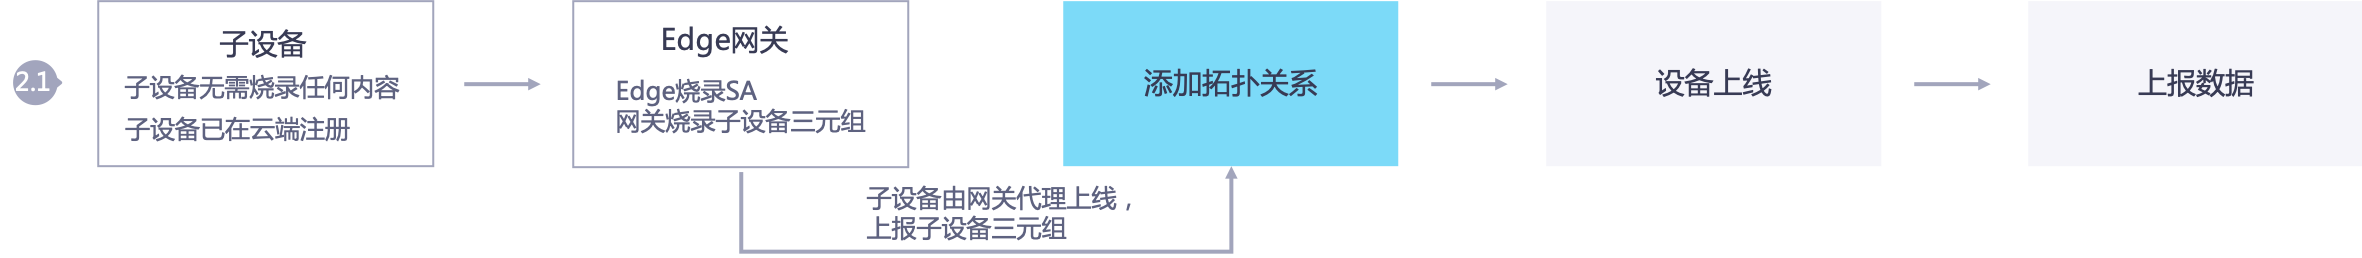
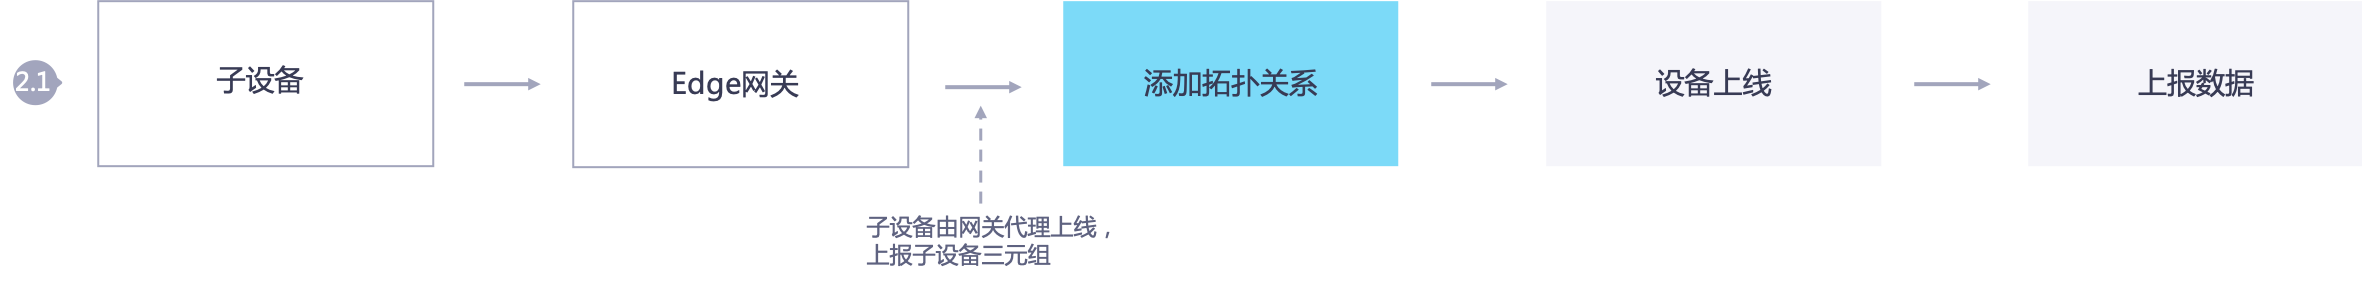
Update.

diff --git a/learn/connection_scenarios.md b/learn/connection_scenarios.md
@@ -75,29 +75,33 @@ EnOS IoT Hub支持的安全认证方式有两种：
 
 ### 场景1.1：单个预注册智能设备<scenario1_1>
 
-接入设备已注册且已在出厂前烧录了自身的三元组。
-
 下图所示为接入场景1.1的消息流。
 
 .. image:: ../media/connection_scenario_1.1.png
 
-该场景要求设备在出厂时已烧录在云端注册设备后得到的设备三元组。由于在制造时需要烧录自身的三元组，因此该场景安全性较高，但是可操作性较低。
+.. note:: 该场景要求设备在出厂时已烧录在云端注册设备后得到的设备三元组。
+
+由于在制造时需要烧录自身的三元组，因此该场景安全性较高，但是可操作性较低。
 
 ### 场景1.2：批量预注册智能设备<scenario1_2>
-
-接入设备已注册且批量烧录相同的产品信息
 
 下图所示为接入场景1.2的消息流。
 
 .. image:: ../media/connection_scenario_1.2.png
 
-场景1.2解决了场景1.1中可操作性较低的情况。即：
+.. note:: 设备已在云端注册；设备烧录产品证书，且启用了动态激活。
 
-1. 每个设备出厂批量烧录相同的产品证书（即`productKey`和`productSecret`）。
+该场景主要步骤如下：
 
-2. 设备注册可以与设备厂商的设备管理系统进行集成。每发货一批次设备，客户的设备管理系统可以通过调用REST API批量注册设备。
+1. 设备注册可以与设备厂商的设备管理系统进行集成。每发货一批次设备，客户的设备管理系统可以通过调用REST API批量注册设备。
 
-3.当设备发往现场、上电、联网以后可以自动与云端进行连接。
+2. 每个设备出厂批量烧录相同的产品证书（即`productKey`和`productSecret`）及以设备序列号作为`deviceKey`。
+
+3. 当设备发往现场、上电、联网以后可通过`productKey`，`productSecret`和`deviceKey`动态获取`deviceSecret`。
+
+4. 设备通过三元组，即`productKey`，`deviceKey`，和`deviceSecret`完成设备激活与上线，并开始传输数据。
+
+场景1.2解决了场景1.1中烧录的可操作性较低的问题，但是因为设备出场烧录相同的产品证书，因此该场景的安全性低于场景1.1。
 
 ### 场景1.3：动态注册非智能设备<scenario1_3>
 
@@ -109,7 +113,7 @@ EnOS IoT Hub支持的安全认证方式有两种：
 
 以户用光伏逆变器为例进行说明。
 
-户用光伏逆变器不支持烧录固件。在该场景中，需要使用采集棒进行数据采集并转发至云端。考虑采集棒只采集一台逆变器的数据，因此可以将逆变器和采集棒视为一个整体的智能设备，而采集棒支持烧录固件，所以可以将逆变器和采集棒作为一个可支持烧录固件的整体智能设备。  
+户用光伏逆变器不支持烧录固件。该场景可视为场景1.1的延伸，在该场景中，需要使用采集棒进行数据采集并转发至云端。考虑采集棒只采集一台逆变器的数据，因此可以将逆变器和采集棒视为一个整体的智能设备，而采集棒支持烧录固件，所以可以将逆变器和采集棒作为一个可支持烧录固件的整体智能设备。  
 
 1. 在云端创建逆变器产品（在客户的OU下创建，而非在开发者OU下创建）。
 
@@ -133,13 +137,16 @@ EnOS IoT Hub支持的安全认证方式有两种：
 
 .. image:: ../media/connection_scenario_2.1.png
 
-场景2.1的原理与2.2类似，只是在场景2.2中，Edge中烧录了SA，具备调用EnOS API的权限，所以可以通过API创建子设备。而在场景2.1中，你需要事先在云端注册子设备，获取子设备三元组信息，并提前将子设备三元组信息烧录到Edge中。
+场景2.1中，你需要事先在云端注册子设备，获取子设备三元组信息，并提前将子设备三元组信息烧录到Edge中。
 
 在EnOS Edge配置中心配置设备连接时，需要将接入设备与预先烧录的子设备三元组绑定。
 
 场景2.1的配置复杂度要大于场景2.2，场景2.2的灵活性更好，但是场景2.1的安全性更高。从便捷的角度，可以考虑使用场景2.2。
 
 ### 场景2.2：动态注册子设备<scenario2_2>
+
+
+场景2.2的原理与2.1类似，场景2.2的灵活性更好，在场景2.2中，Edge中烧录了SA，具备调用EnOS API的权限，所以可以通过API创建子设备。
 
 下图所示为接入场景2.2的消息流。
 

diff --git a/learn/enos_coap.md b/learn/enos_coap.md
@@ -1,35 +1,46 @@
 # 基于CoAP协议的连接
 
-设备开发者可以通过CoAP/DTLS协议，将设备采集的实时数据上报到EnOS Cloud，借助EnOS，实现海量设备的安全连接和数据管理能力。
+设备开发者可以通过CoAP/DTLS协议，将设备采集的实时数据上报到EnOS，借助EnOS，实现海量设备的安全连接和数据管理能力。NB-IoT设备接入EnOS的流程如下图：
 
-设备请求连接到指定的CoAP服务器，开发者可选加密和非加密端口。如果选择加密端口，则设备首先发送DTLS握手请求，设备端和云端根据预定义的算法协商PSK参数，设备端发送pskid和len参数到云端进行校验，成功后建立安全连接通道。
+.. image:: ../media/enos_coap.png
 
-建立安全通道之后，设备发起身份认证请求，如果采用加密方式，此步骤可与上一步DTLS握手合并；如果采用非加密方式，则采用三元组认证方式，支持选择一机一密和一型一密，如果采用后者需先返回devicesecret再认证。
+1. 设备端集成IoT SDK, 并烧录设备三元组于设备中；
+2. 设备通过运营商提供的蜂窝网络连接到EnOS,运营商负责管理设备产生的流量数据和计费，不储存业务数据；
+3. 应用开发者可以通过EnOS的API获取设备数据、修改测点属性、调用设备服务，并将获取的数据呈现在应用中。
 
+## CoAP协议标准
 
-
-## 协议版本
-
-支持RFC 7252 Constrained Application Protocol协议，具体请参考：[RFC 7252](https://tools.ietf.org/html/rfc7252?spm=a2c4g.11186623.2.12.2e2e3cb88Cjj8L)。
-
-## 通道安全
-
-使用DTLS v1.2保证通道安全，具体请参考：[RFC 6347](https://tools.ietf.org/html/rfc6347?spm=a2c4g.11186623.2.13.2e2e3cb88Cjj8L)。
+EnOS支持的协议标准为RFC 7252 Constrained Application Protocol，具体参考：[RFC 7252](https://tools.ietf.org/html/rfc7252?spm=a2c4g.11186623.2.12.2e2e3cb88Cjj8L)。
 
 ## EnOS CoAP约定
 
-支持可确认请求（CON），响应会以Piggybacked形式在ACK消息中返回。
+支持可确认请求（`CON`），响应会以`Piggybacked`形式在`ACK`消息中返回。
 
 实现了RFC 7252协议规定的CoAP缓存功能，因此要求设备对于每一个新的请求，使用不同CoAP Message ID和Token。
 
 EnOS支持CoAP协议中的Block-wise传输功能，具体参考：[RFC 7959](https://tools.ietf.org/html/rfc7959)。
 
+## DTLS安全通道
+
+设备请求连接到指定的CoAP服务器，然后建立DTLS安全通道。连接过程主要步骤如下:
+
+1. 设备首先发送DTLS握手请求
+2. 设备端和EnOS根据预定义的算法协商PSK参数
+3. 设备端发送pskid和len参数到EnOS进行校验，成功后建立安全连接通道。
+
+建立安全通道之后，设备发起身份认证请求，如果采用加密方式，此步骤可与上一步DTLS握手合并；如果采用非加密方式，则采用三元组认证方式，支持选择一机一密和一型一密，如果采用后者需先返回devicesecret再认证。
+
+EnoS使用DTLS v1.2保证通道安全，具体参考：[RFC 6347](https://tools.ietf.org/html/rfc6347?spm=a2c4g.11186623.2.13.2e2e3cb88Cjj8L)。
+
+
 ## 说明与限制
 
-Topic规范和MQTT Topic一致，CoAP协议内接口对于所有topic和MQTT Topic可以复用。
+当设备通过CoAP协议接入EnOS时，Topic规范和MQTT Topic一致，CoAP协议内接口对于所有topic和MQTT Topic可以复用。
 
 EnOS CoAP接入目前不支持资源发现功能，不支持资源观察功能。
 
 通过CoAP传输数据的大小依赖于MTU的大小，建议在1KB以内。
 
+## 下一步
 
+参考[CoAP协议规范](/docs/device-connection/zh_CN/dev/reference/coap/index)将设备接入EnOS并复用MQTT topic与EnOS Cloud进行数据传输。

diff --git a/howto/model/creating_model.md b/howto/model/creating_model.md
@@ -53,6 +53,16 @@
 
      + int,float,double：需定义默认值，该数据的单位等信息。
      + enum：需定义枚举项的参数值和该参数的描述。
+
+       .. csv-table::
+          :widths: auto
+
+          "字段", "描述"
+          "参数值", "支持int和string类型，长度不超过32个字符。只有当所有参数值都是int类型时，参数值才会作为int类型保存；在参数值中存在一个或多个string类型字符，则全体参数值作为string类型保存。"
+          "参数描述", "支持中文、英文大小写、数字和特殊字符“-”、“_”、“@”、“.”、和“:”，长度不超过128个字符"
+       
+       .. note:: 参数值以int类型还是string类型存储，以创建时的设置为准。如创建该enum类型参数时，参数都以int类型保存，后续如果在某个enum参数值中加入字符时，EnOS会提示参数类型错误，因为所有参数值都已被设置为int类型；如过创建该类型时，参数都保存为string类型，则后续如果修改参数值列表，使其不包含任何字符，这些变量依然会保存为string类型，而不是int，此时EnOS不会提示参数类型错误。
+
      + bool：需采用0和1来定义布尔值。
      + string：需定义默认值，String的类型和string的数据长度。
      + timestamp：timestamp的格式为String类型的UTC时间戳(毫秒)。

diff --git a/reference/coap/reporting_data.md b/reference/coap/reporting_data.md
@@ -1,0 +1,28 @@
+# 设备上报属性、测点、事件
+
+设备可以通过CoAP接入，按照EnOS设备协议规范上报属性信息、测点信息和设备事件。
+
+通过CoAP接入的低功耗设备消耗的数据格式常见为二进制数据流，可以使用透传模式上报至EnOS Cloud并在云端通过脚本解析器将数据转成EnOS标准JSON。
+
+当设备通过CoAP协议接入EnOS时，Topic规范和MQTT Topic一致，有关上行消息的请求数据格式、响应数据格式、参数说明，参见[设备上报属性、测点和事件（透传）](../mqtt/upstream/device_else/report_event_pass)
+
+响应中除了包括EnOS设备协议规范定义的响应数据（Payload）外，还包括了CoAP返回码，返回码和响应数据的结构如下：
+
+```json
+Code: CoAP协议定义的返回码
+Payload: {ResponsePayload}
+``` 
+
+CoAP协议定义的返回码说明如下：
+
+.. csv-table::
+   :widths: auto
+
+   "返回码", "描述", "Payload", "说明"
+   "2.04", "Changed", "EnOS支持的响应数据", "正确请求"
+   "4.00", "Bad Request", "无", "请求发送的Payload非法"
+   "4.01", "Unauthorized", "无", "未授权的请求"
+   "4.03", "Forbidden", "无", "禁止的请求"
+   "4.04", "Not Found", "无", "请求的路径不存在"
+   "4.05", "Method Not Allowed", "无", "请求方法不合法"
+   "5.00", "Internal Server Error", "无", "EnOS内部错误"

diff --git a/reference/coap/invoking_service_setting_measure_point.md b/reference/coap/invoking_service_setting_measure_point.md
@@ -1,0 +1,30 @@
+# 云端下发测点设置与服务调用
+
+应用可以通过EnOS的API，对通过CoAP接入的设备设置测点或调用服务。
+
+关于测点设置、服务调用的请求数据格式、相应数据格式、参数说明，参见[向设备发送指令（透传）](../mqtt/downstream/devices/invoke_services_pass)。
+
+当应用对设备设置测点或调用服务后，EnOS Cloud会缓存这个请求，待设备发送上行数据时，在响应消息内通知设备，即EnOS会在响应中包含一个EnOS定义的Option（2100）。
+
+响应：
+
+```json
+Code: CoAP返回码
+Payload: {RequestPayload}
+Customized Option 2100: /topic/{RequestTopic}
+``` 
+
+设备在收到这个Option后，应用可以通过请求调用服务。
+
+查询服务调用请求：`GET /topic/{RequestTopic}`
+
+响应：
+
+```json
+Code: CoAP返回码，参考Code说明
+Payload: 
+```
+
+如果有更多的服务调用，EnOS还会在响应中包含Option（2100）。设备也会重复服务调用查询过程。
+
+设备在执行完测点设置或服务调用后，可以将执行的结果按照EnOS设备协议规范定义的响应Topic和响应数据格式，发送给EnOS Cloud。

diff --git a/learn/deviceconnection_authentication.md b/learn/deviceconnection_authentication.md
@@ -39,12 +39,15 @@
 - **动态激活**：动态激活过程如下：
 
   1. 设备首次尝试连接时携带`ProductKey`，`ProductSecret`，`DeviceKey`来请求激活，鉴权通过以后，返回`DeviceSecret`给设备。
+      - 未激活的设备，使用`ProductKey`，`ProductSecret`，`DeviceKey`可以反复注册获取`DeviceSecret`，每次获取的`deviceSecret`不同。
+      - 已激活的设备，`deviceSecret`唯一。若需要重新激活该设备，请首先在云端删除设备，重新注册，使用新的`ProductKey`，`ProductSecret`，`DeviceKey`获取`DeviceSecret`。
 
   2. 设备通过`ProductKey`，`DeviceKey`，`DeviceSecret`来尝试登录。
 
   3. 设备成功登录后，设备状态从 **未激活** 变成 **在线** 状态。此时设备可以上送数据，如果一段时间内不上送数据，设备状态变成 **离线**。
 
-  如需采用动态激活方式，你需要在产品配置中开启 **动态激活**。
+  如需采用动态激活方式，你需要在产品管理配置中开启 **动态激活**，参见[开启动态激活](../howto/device/manage/managing_products)。
+
 
 - **静态激活**：静态激活的过程如下：
 

diff --git a/index.rst b/index.rst
@@ -12,11 +12,11 @@
    :maxdepth: 1
    :caption: 概念
 
-   learn/message_flow
-   learn/connection_protocols
    learn/connection_scenarios
+   learn/message_flow
+   learn/enos_coap   
    learn/device_lifecycle_management
-   learn/ingestion/index
+   learn/ingestion/index   
    learn/deviceconnection_authentication
 
 .. toctree::
@@ -44,5 +44,4 @@
    :caption: 参考信息
 
    reference/mqtt/index
-.. 
-reference/coap/index
+   reference/coap/index

diff --git a/howto/ota/viewing_upgrade_detail.md b/howto/ota/viewing_upgrade_detail.md
@@ -25,9 +25,6 @@
       "升级成功","本次固件升级成功的设备"
       "升级失败","本次升级失败的设备及简要的失败原因，对这些设备可选择**重新升级**"
 
-   
-      
-
 ## 结果
 
 升级失败标签页会列举常见的升级失败原因如下：

diff --git a/reference/coap/index.rst b/reference/coap/index.rst
@@ -1,10 +1,11 @@
-Device Protocol for CoAP
+基于CoAP协议的设备连接
 =========================
 
 
 .. toctree::
    :maxdepth: 1
+   :caption: 参考信息
 
    connection
-   report_data_passthrough
-   invoke_service
+   reporting_data
+   invoking_service_setting_measure_point
